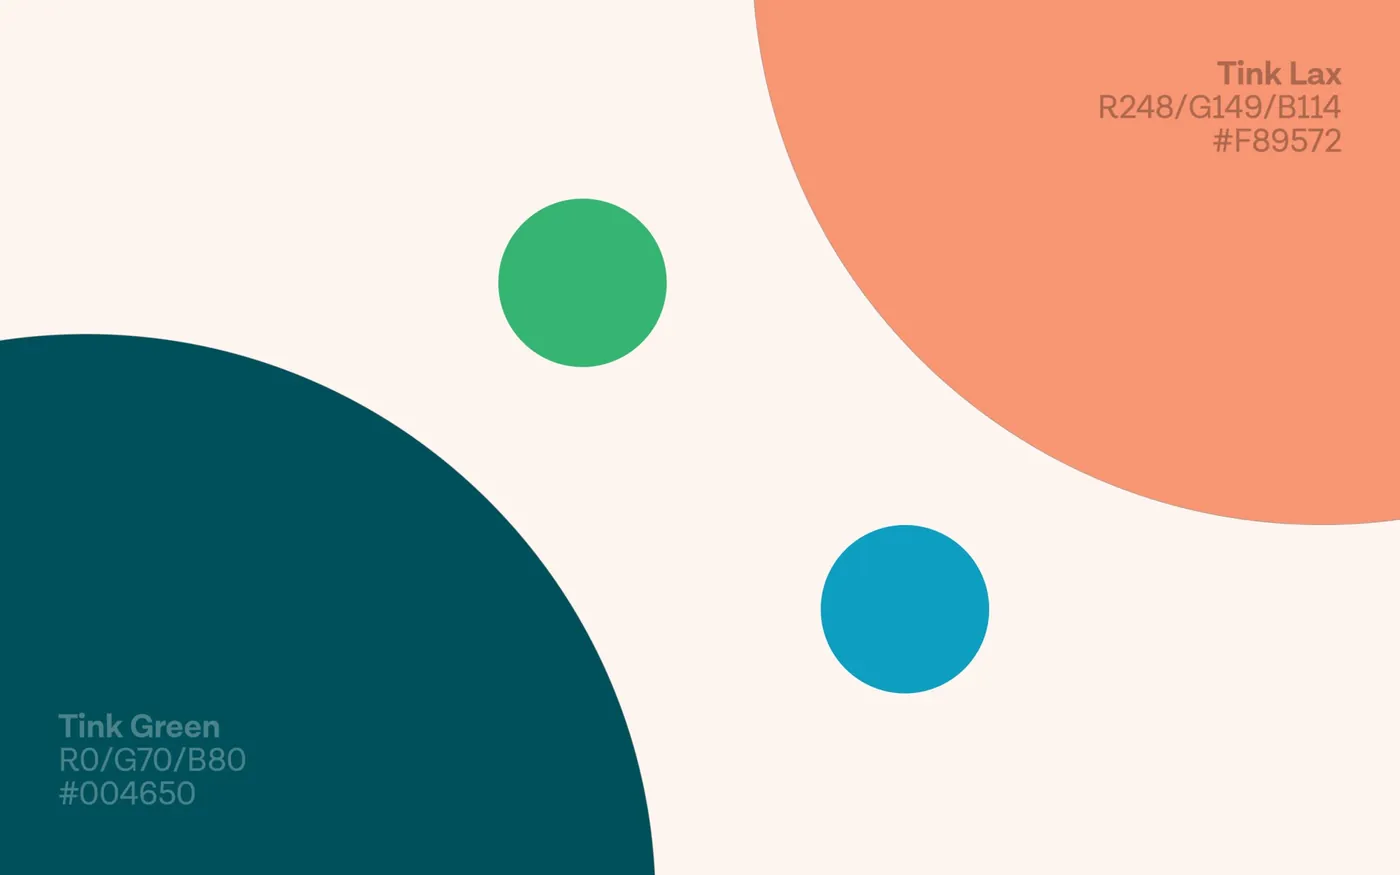
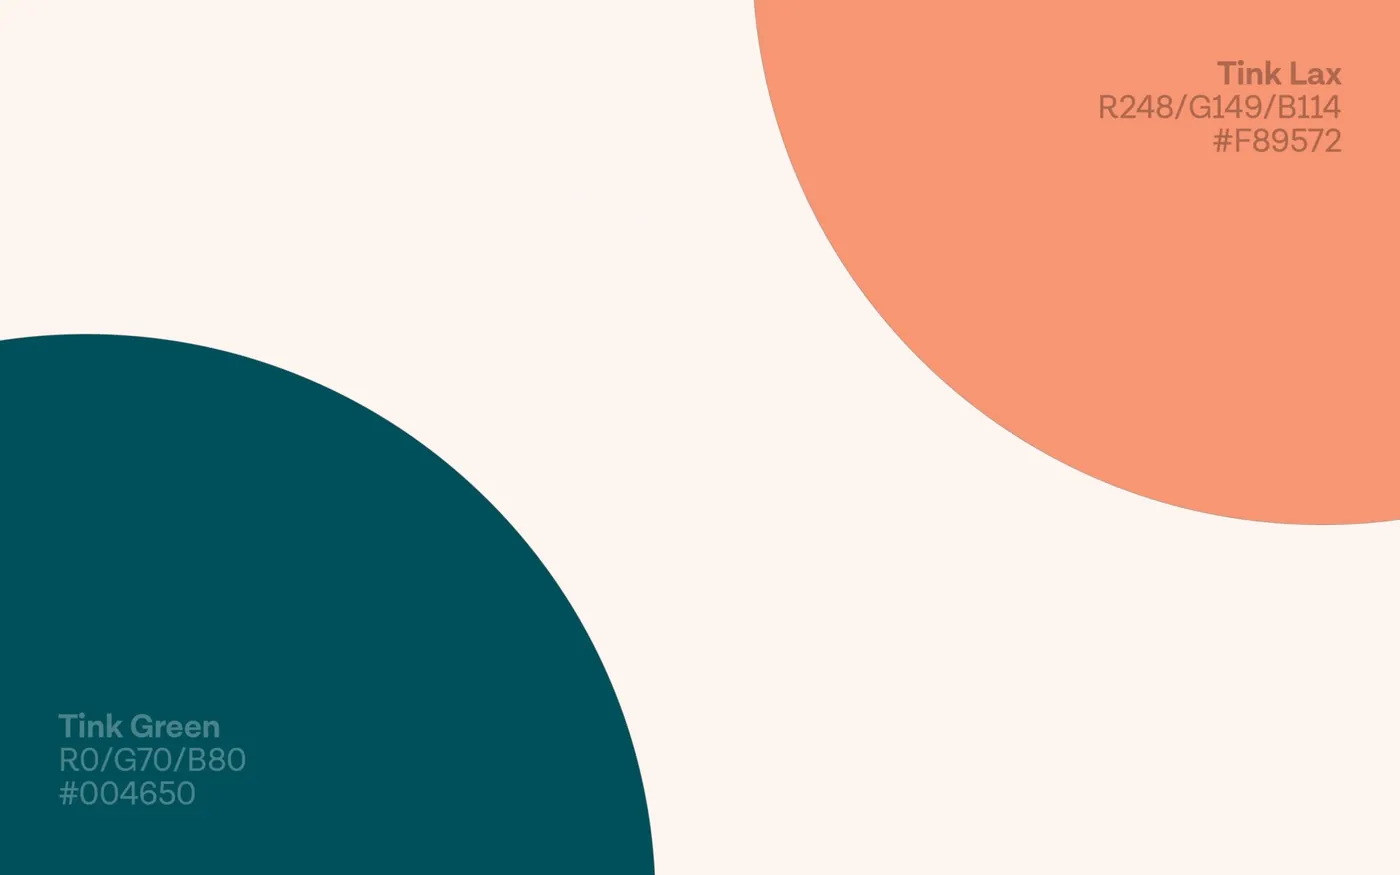
Tink: palette dots float slowly; Oqto: isometric screens drift diagonally
Claude-Session: https://claude.ai/code/session_01T8AAM769pNUjzneeyTgJVR

Changed region(s): [[0.3379, 0.216, 0.4914, 0.432], [0.5836, 0.5863, 0.7064, 0.8023]]

diff --git a/docs/oqto/index.html b/docs/oqto/index.html
@@ -17,7 +17,7 @@
 <link rel="apple-touch-icon" href="../apple-touch-icon.png">
 <link rel="preload" href="../fonts/familjen-grotesk-latin-wght-normal.woff2" as="font" type="font/woff2" crossorigin>
 <link rel="stylesheet" href="../css/base.css?v=b94be2dc">
-<link rel="stylesheet" href="../css/oqto.css?v=b9556b29">
+<link rel="stylesheet" href="../css/oqto.css?v=0f16b6f9">
 <link rel="stylesheet" href="../css/site.css?v=d81ffc0d">
 <script>(function(){try{try{localStorage.removeItem("theme")}catch(e){}var t=sessionStorage.getItem("theme");if(t==="dk"||t==="lt")document.documentElement.classList.add(t)}catch(e){}})();</script>
 <noscript><style>.rv{opacity:1!important}.rv .zm,.rv .st,.rv .bl{transform:none!important}.rv .st span{opacity:1!important}.rv .ck path{stroke-dashoffset:0!important}.ic .s{stroke-dashoffset:0!important}.ic .nd{transform:none!important}</style></noscript>
@@ -113,7 +113,7 @@
 <p class="c-step-text">I redesigned a selection of screens chosen to cover as much of the product as possible, and reworked the flows that needed bigger changes. Below is one of them: the editor for building automations.</p>
 </div>
 </div>
-<div data-px="1" data-rv="6" data-lb="1" tabindex="0" role="button" aria-label="Enlarge image" class="rv c-clip"><img class="zm px" src="../assets/oqto-screens-1400.webp?v=df0c9d02" srcset="../assets/oqto-screens-800.webp?v=8f604210 800w, ../assets/oqto-screens-1400.webp?v=df0c9d02 1400w, ../assets/oqto-screens.webp?v=95bce654 2400w" sizes="(min-width: 1440px) 1200px, 92vw" data-lbsrc="../assets/oqto-screens.webp?v=95bce654" loading="lazy" decoding="async" alt="Oqto screens in an isometric grid, including the command palette, month-end closing and a customer invoice in dark mode" width="2400" height="1500"></div>
+<div data-px="1" data-rv="6" data-lb="1" tabindex="0" role="button" aria-label="Enlarge image" class="rv c-clip"><div class="dg"><img class="zm px" src="../assets/oqto-screens-1400.webp?v=df0c9d02" srcset="../assets/oqto-screens-800.webp?v=8f604210 800w, ../assets/oqto-screens-1400.webp?v=df0c9d02 1400w, ../assets/oqto-screens.webp?v=95bce654 2400w" sizes="(min-width: 1440px) 1200px, 92vw" data-lbsrc="../assets/oqto-screens.webp?v=95bce654" loading="lazy" decoding="async" alt="Oqto screens in an isometric grid, including the command palette, month-end closing and a customer invoice in dark mode" width="2400" height="1500"></div></div>
 <div data-rv="5" data-lb="1" tabindex="0" role="button" aria-label="Enlarge image" class="rv c-clip"><div class="zm an ap"><img src="../assets/oqto-autopilot-screen-1400.webp?v=e877b4d3" srcset="../assets/oqto-autopilot-screen-800.webp?v=689e47ad 800w, ../assets/oqto-autopilot-screen-1400.webp?v=e877b4d3 1400w, ../assets/oqto-autopilot-screen.webp?v=055c99a0 2400w" sizes="(min-width: 1440px) 1200px, 92vw" loading="lazy" decoding="async" data-lbsrc="../assets/oqto-autopilot.webp?v=69045211" alt="The automation editor in Oqto, with the automation’s card on top" width="2400" height="1500">
 <div aria-hidden="true"><i class="fl f1"></i><i class="fl f2"></i><i class="fl f3"></i><i class="fl f4"></i><i class="fl f5"></i><i data-rv="8" class="ac rv c-e239d3"></i></div></div></div>
 </section>

diff --git a/docs/tink/index.html b/docs/tink/index.html
@@ -17,7 +17,7 @@
 <link rel="apple-touch-icon" href="../apple-touch-icon.png">
 <link rel="preload" href="../fonts/familjen-grotesk-latin-wght-normal.woff2" as="font" type="font/woff2" crossorigin>
 <link rel="stylesheet" href="../css/base.css?v=b94be2dc">
-<link rel="stylesheet" href="../css/tink.css?v=816cb6e7">
+<link rel="stylesheet" href="../css/tink.css?v=94972532">
 <link rel="stylesheet" href="../css/site.css?v=d81ffc0d">
 <script>(function(){try{try{localStorage.removeItem("theme")}catch(e){}var t=sessionStorage.getItem("theme");if(t==="dk"||t==="lt")document.documentElement.classList.add(t)}catch(e){}})();</script>
 <noscript><style>.rv{opacity:1!important}.rv .zm,.rv .st,.rv .bl{transform:none!important}.rv .st span{opacity:1!important}.rv .ck path{stroke-dashoffset:0!important}.ic .s{stroke-dashoffset:0!important}.ic .nd{transform:none!important}</style></noscript>
@@ -82,7 +82,7 @@
 </div>
 <div data-rv="1" data-lb="1" tabindex="0" role="button" aria-label="Enlarge image" class="rv c-clip"><img class="zm" src="../assets/tink-logo-1400.webp?v=9be86970" srcset="../assets/tink-logo-800.webp?v=caefe339 800w, ../assets/tink-logo-1400.webp?v=9be86970 1400w, ../assets/tink-logo.webp?v=321485c4 3200w" sizes="(min-width: 1440px) 1200px, 92vw" data-lbsrc="../assets/tink-logo.webp?v=321485c4" loading="lazy" decoding="async" alt="Tink wordmark and symbol on dark green" width="2000" height="1250"></div>
 <div class="c-grid2">
-<div data-rv="2" data-lb="1" tabindex="0" role="button" aria-label="Enlarge image" class="rv c-clip"><img class="zm" src="../assets/tink-colours-1400.webp?v=3a434568" srcset="../assets/tink-colours-800.webp?v=3a585aad 800w, ../assets/tink-colours-1400.webp?v=3a434568 1400w, ../assets/tink-colours.webp?v=47e93c3f 2000w" sizes="(min-width: 1440px) 600px, (min-width: 900px) 46vw, 92vw" data-lbsrc="../assets/tink-colours.webp?v=47e93c3f" loading="lazy" decoding="async" alt="Tink colour palette with Tink Lax and Tink Green" width="2000" height="1250"></div>
+<div data-rv="2" data-lb="1" tabindex="0" role="button" aria-label="Enlarge image" class="rv c-clip"><div class="zm pal"><img src="../assets/tink-colours-1400.webp?v=06094134" srcset="../assets/tink-colours-800.webp?v=7d2fde1c 800w, ../assets/tink-colours-1400.webp?v=06094134 1400w, ../assets/tink-colours.webp?v=29225ee7 2000w" sizes="(min-width: 1440px) 600px, (min-width: 900px) 46vw, 92vw" loading="lazy" decoding="async" data-lbsrc="../assets/tink-colours-full.webp?v=2c4f8ce6" alt="Tink colour palette with Tink Lax and Tink Green" width="2000" height="1250"><i class="pc pc1" aria-hidden="true"></i><i class="pc pc2" aria-hidden="true"></i></div></div>
 <div data-rv="3" data-lb="1" tabindex="0" role="button" aria-label="Enlarge image" class="rv c-clip"><img class="zm" src="../assets/tink-poster.jpg?v=08dc15c1" alt="Poster showing Tink’s visual language" width="2000" height="1250"></div>
 </div>
 </section>

diff --git a/site/pages/oqto.html b/site/pages/oqto.html
@@ -24,7 +24,7 @@
 
 <section [[SC]]>
 @STEP{03 The product|Key screens, rebuilt|I redesigned a selection of screens chosen to cover as much of the product as possible, and reworked the flows that needed bigger changes. Below is one of them: the editor for building automations.}
-<div data-px="1" @RV{6}><img class="zm px" src="[[A]]oqto-screens.jpg" alt="Oqto screens in an isometric grid, including the command palette, month-end closing and a customer invoice in dark mode" width="2400" height="1500"></div>
+<div data-px="1" @RV{6}><div class="dg"><img class="zm px" src="[[A]]oqto-screens.jpg" alt="Oqto screens in an isometric grid, including the command palette, month-end closing and a customer invoice in dark mode" width="2400" height="1500"></div></div>
 <div @RV{5}><div class="zm an ap"><img src="[[A]]oqto-autopilot-screen.jpg" data-lbsrc="[[A]]oqto-autopilot.jpg" alt="The automation editor in Oqto, with the automation’s card on top" width="2400" height="1500">
 <div aria-hidden="true"><i class="fl f1"></i><i class="fl f2"></i><i class="fl f3"></i><i class="fl f4"></i><i class="fl f5"></i><i data-rv="8" class="ac rv" style="background-image: url([[A]]oqto-autopilot-card.webp)"></i></div></div></div>
 </section>

diff --git a/docs/css/tink.css b/docs/css/tink.css
@@ -13,6 +13,10 @@
 .dots .dt{position:absolute;width:7%}
 .dots .da{left:79.35%;top:47.04%}
 .dots .db{left:66.5%;top:64.8%}
+.pal{position:relative}
+.pal .pc{position:absolute;display:block;width:12%;aspect-ratio:1;border-radius:50%}
+.pal .pc1{left:35.6%;top:22.8%;background:#36B572}
+.pal .pc2{left:58.7%;top:60.08%;background:#0E9EC1}
 @media (prefers-reduced-motion: no-preference){
 .ey{animation:eyL 11s cubic-bezier(.45,0,.55,1) 1.5s infinite}
 @keyframes eyL{0%,12%{transform:none}45%,62%{transform:translateX(-89%)}95%,100%{transform:none}}
@@ -28,4 +32,7 @@
 .dots .db{animation:dtB 10.5s ease-in-out -3s infinite alternate}
 @keyframes dtA{from{transform:translate(-6%,-14%)}to{transform:translate(6%,14%)}}
 @keyframes dtB{from{transform:translate(8%,10%)}to{transform:translate(-8%,-12%)}}
+.pal .pc1{animation:pcF 7s ease-in-out infinite alternate}
+.pal .pc2{animation:pcF 9s ease-in-out -3s infinite alternate-reverse}
+@keyframes pcF{from{transform:translateY(-12%)}to{transform:translateY(12%)}}
 }

diff --git a/site/css/tink.css b/site/css/tink.css
@@ -13,6 +13,10 @@
 .dots .dt{position:absolute;width:7%}
 .dots .da{left:79.35%;top:47.04%}
 .dots .db{left:66.5%;top:64.8%}
+.pal{position:relative}
+.pal .pc{position:absolute;display:block;width:12%;aspect-ratio:1;border-radius:50%}
+.pal .pc1{left:35.6%;top:22.8%;background:#36B572}
+.pal .pc2{left:58.7%;top:60.08%;background:#0E9EC1}
 @media (prefers-reduced-motion: no-preference){
 .ey{animation:eyL 11s cubic-bezier(.45,0,.55,1) 1.5s infinite}
 @keyframes eyL{0%,12%{transform:none}45%,62%{transform:translateX(-89%)}95%,100%{transform:none}}
@@ -28,4 +32,7 @@
 .dots .db{animation:dtB 10.5s ease-in-out -3s infinite alternate}
 @keyframes dtA{from{transform:translate(-6%,-14%)}to{transform:translate(6%,14%)}}
 @keyframes dtB{from{transform:translate(8%,10%)}to{transform:translate(-8%,-12%)}}
+.pal .pc1{animation:pcF 7s ease-in-out infinite alternate}
+.pal .pc2{animation:pcF 9s ease-in-out -3s infinite alternate-reverse}
+@keyframes pcF{from{transform:translateY(-12%)}to{transform:translateY(12%)}}
 }

diff --git a/site/pages/tink.html b/site/pages/tink.html
@@ -11,7 +11,7 @@
 @STEP1{01 Identity|The foundation: logo, colour and form|The logo and colours were developed in close collaboration with the branding agency Kurppa Hosk. I then took the identity further and brought it into the product, marketing assets and sales materials.}
 @IMG{1|tink-logo.jpg|Tink wordmark and symbol on dark green|2000|1250}
 <div [[GRID2]]>
-@IMG{2|tink-colours.jpg|Tink colour palette with Tink Lax and Tink Green|2000|1250}
+<div @RV{2}><div class="zm pal"><img src="[[A]]tink-colours.jpg" data-lbsrc="[[A]]tink-colours-full.jpg" alt="Tink colour palette with Tink Lax and Tink Green" width="2000" height="1250"><i class="pc pc1" aria-hidden="true"></i><i class="pc pc2" aria-hidden="true"></i></div></div>
 @IMG{3|tink-poster.jpg|Poster showing Tink’s visual language|2000|1250}
 </div>
 </section>

diff --git a/docs/css/oqto.css b/docs/css/oqto.css
@@ -27,6 +27,8 @@
 .oc .o2{animation:ocB 2.9s ease-in-out -1s infinite alternate}
 @keyframes ocF{from{transform:translateY(3.5%) rotate(-2deg)}to{transform:translateY(-3.5%) rotate(2deg)}}
 @keyframes ocB{from{transform:translate(-6%,10%)}to{transform:translate(8%,-16%)}}
+.dg{animation:dgF 22s ease-in-out infinite alternate;will-change:transform}
+@keyframes dgF{from{transform:scale(1.08) translate(-3.2%,1.92%)}to{transform:scale(1.08) translate(3.2%,-1.92%)}}
 .hq{animation:hl1 6s cubic-bezier(.45,0,.2,1) 1s infinite}
 .q2{animation-name:hl2}
 @keyframes hl1{0%{opacity:1;transform:scaleX(0)}12%{opacity:1;transform:scaleX(1)}36%{opacity:1;transform:scaleX(1)}46%,100%{opacity:0;transform:scaleX(1)}}

diff --git a/site/css/oqto.css b/site/css/oqto.css
@@ -27,6 +27,8 @@
 .oc .o2{animation:ocB 2.9s ease-in-out -1s infinite alternate}
 @keyframes ocF{from{transform:translateY(3.5%) rotate(-2deg)}to{transform:translateY(-3.5%) rotate(2deg)}}
 @keyframes ocB{from{transform:translate(-6%,10%)}to{transform:translate(8%,-16%)}}
+.dg{animation:dgF 22s ease-in-out infinite alternate;will-change:transform}
+@keyframes dgF{from{transform:scale(1.08) translate(-3.2%,1.92%)}to{transform:scale(1.08) translate(3.2%,-1.92%)}}
 .hq{animation:hl1 6s cubic-bezier(.45,0,.2,1) 1s infinite}
 .q2{animation-name:hl2}
 @keyframes hl1{0%{opacity:1;transform:scaleX(0)}12%{opacity:1;transform:scaleX(1)}36%{opacity:1;transform:scaleX(1)}46%,100%{opacity:0;transform:scaleX(1)}}

diff --git a/site/build.py b/site/build.py
@@ -24,7 +24,7 @@ ASSETS = {
     "61a378bf7433de32c670c178063634b2": "oqto-autopilot-screen.jpg", "383cff83cd54a399877734eba3790234": "oqto-autopilot.jpg",
     "43354ec57226250cefeb1cbb4d54810b": "oqto-autopilot-card.jpg", "9aa647c4ebf37b042b20b8b87da433a1": "oqto-components.jpg", "65ae19d31029925e96dfdd8e898d1392": "oqto-components.jpg",
     "a06f2b58758b6fb555fed11e960a2e03": "oqto-app.jpg", "e12f6c6e1533b4a8be48896524a14591": "oqto-app.jpg",
-    "637462e7e8cb1a3e784b541fafad197d": "tink-logo.jpg", "d231f1039acc7b8c33ee891994a401d8": "tink-logo.jpg", "6e3a6e0409bc43d9788ccd3c57f38416": "tink-colours.jpg",
+    "637462e7e8cb1a3e784b541fafad197d": "tink-logo.jpg", "d231f1039acc7b8c33ee891994a401d8": "tink-logo.jpg", "b6b1e8a8e5fa98b758e017b9d7b81266": "tink-colours.jpg", "6e3a6e0409bc43d9788ccd3c57f38416": "tink-colours-full.jpg",
     "8ccadca1c7c70a65154867eb4540ba2f": "tink-poster.jpg", "9a65abafdb9345d5e481ffe969c22879": "tink-type.jpg",
     "3bca89cef68a116650a6c5ef6770cb4f": "tink-icons.jpg", "c1f94b98ab6d53cafc91e170a44835eb": "tink-dot-a.png",
     "f7b58a42b01e4846ca3732440ee7e58e": "tink-dot-b.png", "700febebcb68be373cda9b187586076e": "tink-onboarding.jpg", "4f6ed7b8c64d933afb03fb554d2835aa": "tink-onboarding.jpg",
